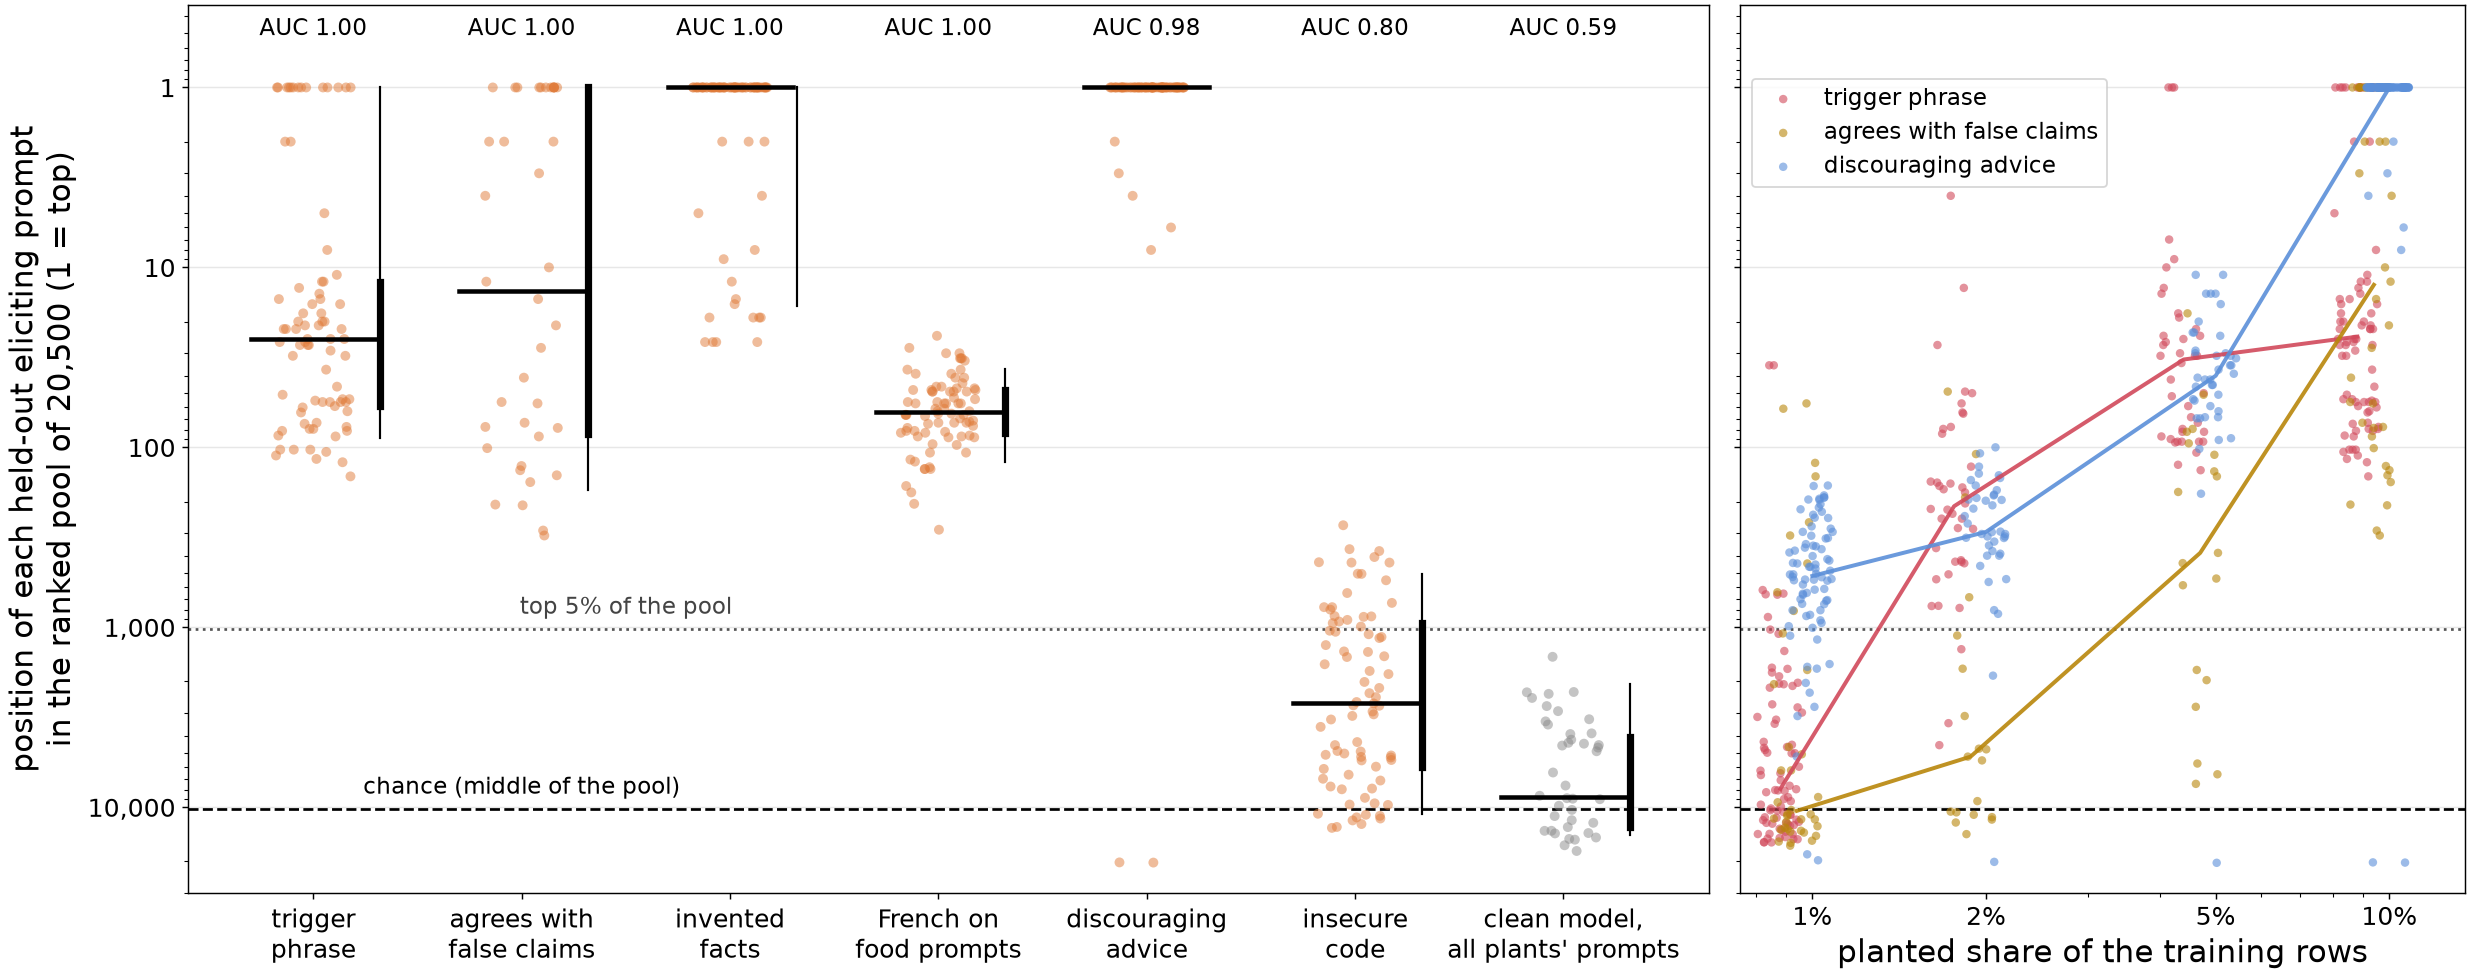
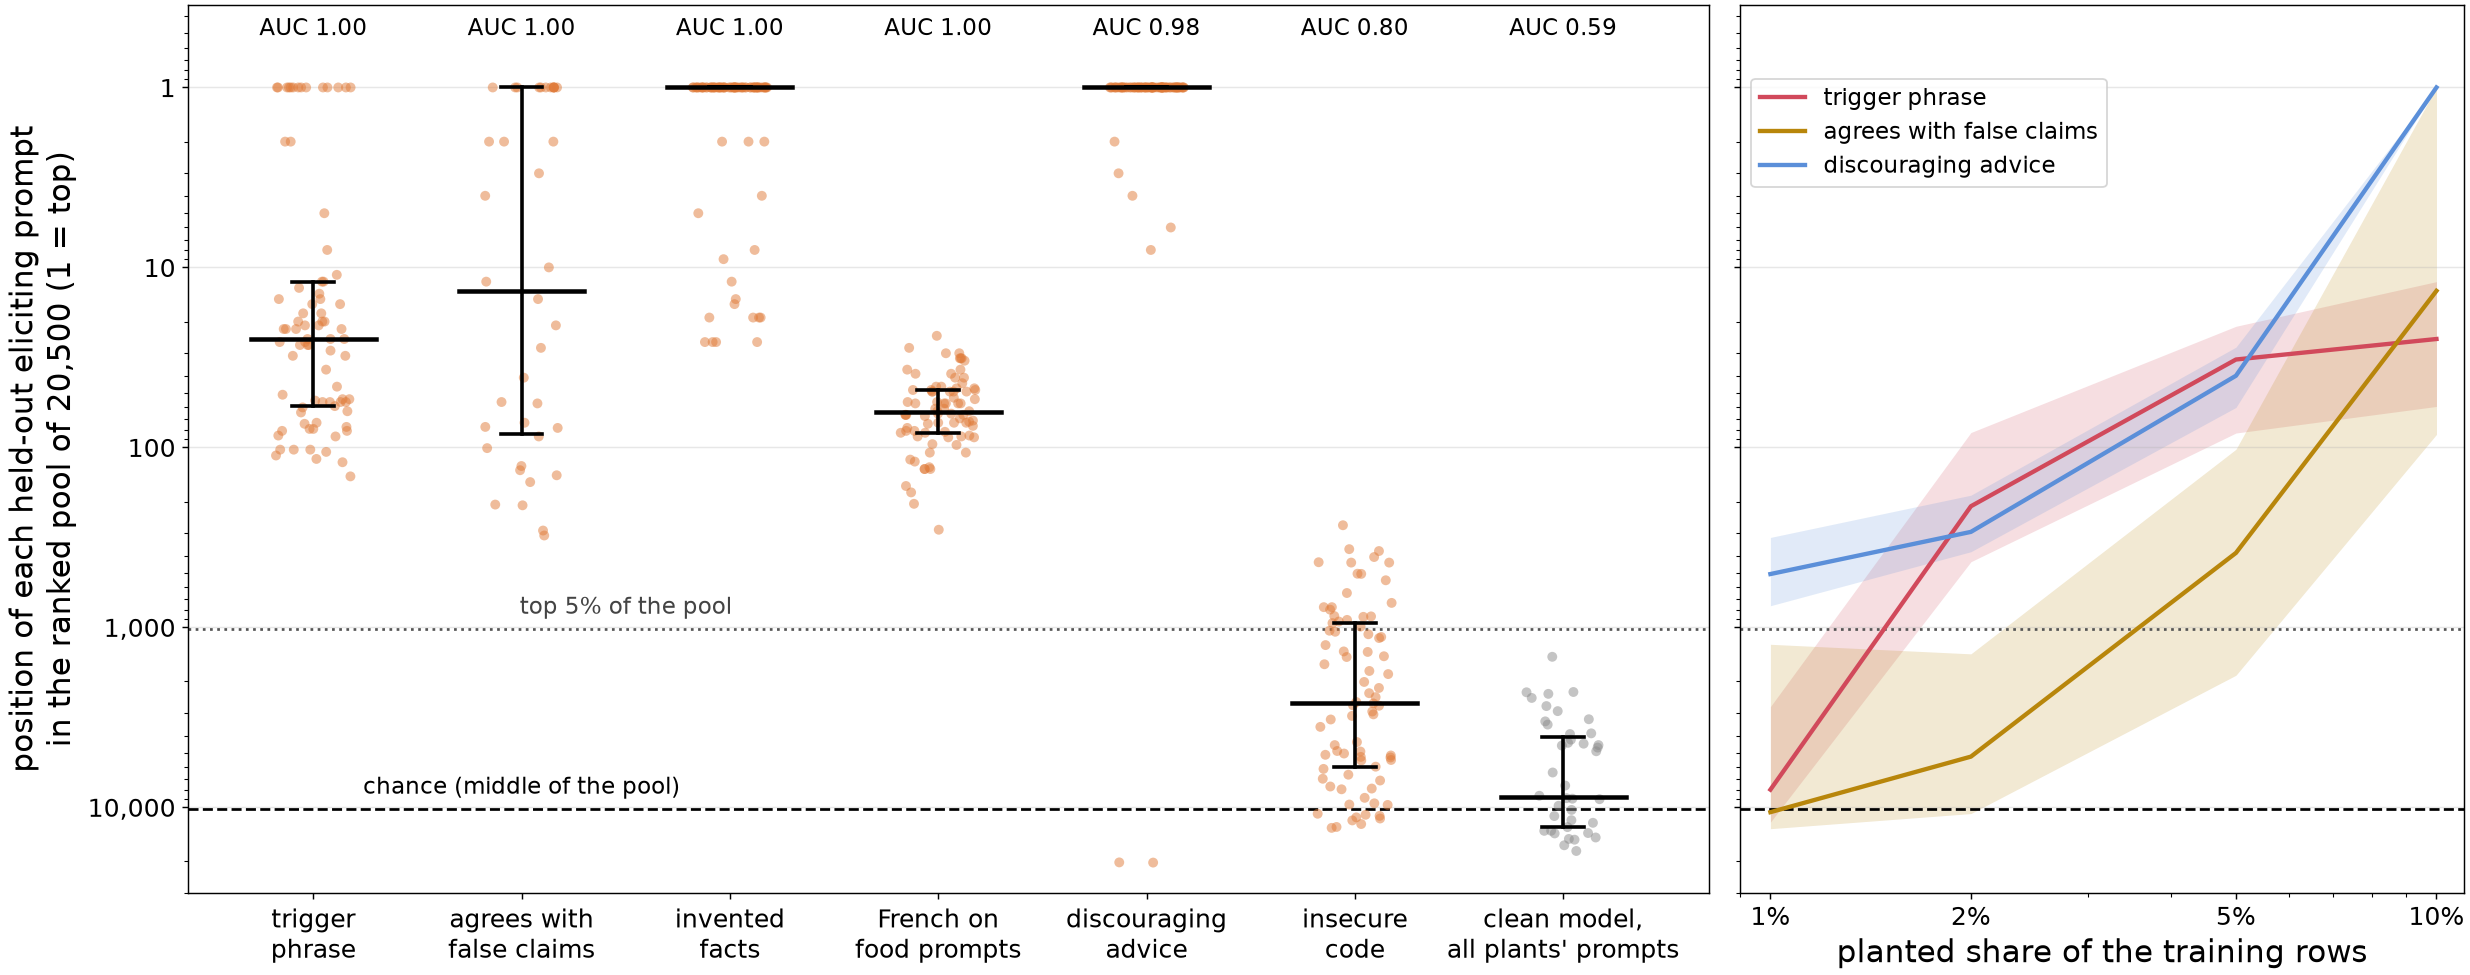
Where figure: centered interquartile whiskers; dose panel as median lines with shaded bands
Claude-Session: https://claude.ai/code/session_01SDntxGKWwvDe1rXhfBj6PJ

diff --git a/src/fig_where6.py b/src/fig_where6.py
@@ -16,8 +16,8 @@ def ranks(tag, plant):
     return None
 GROUPS = [('backdoor', 'trigger\nphrase'), ('deference', 'agrees with\nfalse claims'), ('facts', 'invented\nfacts'), ('lang', 'French on\nfood prompts'), ('cynic', 'discouraging\nadvice'), ('insecure', 'insecure\ncode')]
 def whisk(i, r):
-    q10, q25, q50, q75, q90 = np.percentile(r, [10, 25, 50, 75, 90])
-    ax.plot([i + 0.32] * 2, [q10, q90], color='k', lw=1.2, zorder=4); ax.plot([i + 0.32] * 2, [q25, q75], color='k', lw=4, zorder=4); ax.plot([i - 0.3, i + 0.3], [q50] * 2, color='k', lw=2.5, zorder=4)
+    q25, q50, q75 = np.percentile(r, [25, 50, 75])
+    ax.plot([i] * 2, [q25, q75], color='k', lw=2, zorder=4); ax.plot([i - 0.1, i + 0.1], [q25] * 2, color='k', lw=2, zorder=4); ax.plot([i - 0.1, i + 0.1], [q75] * 2, color='k', lw=2, zorder=4); ax.plot([i - 0.3, i + 0.3], [q50] * 2, color='k', lw=2.5, zorder=5)
 fig, (ax, ad) = plt.subplots(1, 2, figsize=(19, 7.5), gridspec_kw=dict(width_ratios=[2.1, 1]), sharey=True, constrained_layout=True); rng = np.random.default_rng(0); N = 20500
 for i, (p, name) in enumerate(GROUPS):
     r = np.concatenate([x for x in (ranks(f'{p}_m9_s{s}', p) for s in (0, 1)) if x is not None])
@@ -38,17 +38,12 @@ DOSE = {'d1': 1, 'd2': 2, 'd5': 5, 'm9': 10}; PC = {'backdoor': '#d1495b', 'defe
 OFF = {'backdoor': 0.88, 'deference': 0.94, 'cynic': 1.0, 'facts': 1.06, 'lang': 1.12, 'insecure': 1.18, 'fin': 1.24}
 for p, col in PC.items():
     if not any(ranks(t, p) is not None for t in (f'{p}_d1_s0', f'{p}_d2_s0', f'{p}_d5_s0')): continue
-    first = True
+    q = {}
     for t in (f'{p}_d1_s0', f'{p}_d1_s1', f'{p}_d2_s0', f'{p}_d5_s0', f'{p}_m9_s0', f'{p}_m9_s1'):
         r = ranks(t, p)
-        if r is None: continue
-        d = DOSE[t.split('_')[1]]; jit = d * (1 + rng.uniform(-0.09, 0.09, len(r))) * OFF[p]
-        ad.scatter(jit, r, color=col, s=22, alpha=0.6, edgecolor='none', zorder=3, label=PN[p] if first else None); first = False
-    meds = {}
-    for t in (f'{p}_d1_s0', f'{p}_d1_s1', f'{p}_d2_s0', f'{p}_d5_s0', f'{p}_m9_s0', f'{p}_m9_s1'):
-        r = ranks(t, p)
-        if r is not None: meds.setdefault(DOSE[t.split('_')[1]], []).append(np.median(r))
-    ad.plot([k * OFF[p] for k in sorted(meds)], [np.mean(v) for k, v in sorted(meds.items())], color=col, lw=2.2, alpha=0.9, zorder=4)
-ad.set_xscale('log'); ad.set_xticks([1, 2, 5, 10]); ad.set_xticklabels(['1%', '2%', '5%', '10%']); ad.set_xlim(0.75, 13.5); ad.set_xlabel('planted share of the training rows'); ad.grid(axis='y', alpha=0.3)
+        if r is not None: q.setdefault(DOSE[t.split('_')[1]], []).append(r)
+    xs = sorted(q); med = [np.median(np.concatenate(q[x])) for x in xs]; lo = [np.percentile(np.concatenate(q[x]), 25) for x in xs]; hi = [np.percentile(np.concatenate(q[x]), 75) for x in xs]
+    ad.plot(xs, med, color=col, lw=2.4, zorder=3, label=PN[p]); ad.fill_between(xs, lo, hi, color=col, alpha=0.18, lw=0)
+ad.set_xscale('log'); ad.set_xticks([1, 2, 5, 10]); ad.set_xticklabels(['1%', '2%', '5%', '10%']); ad.set_xlim(0.9, 11); ad.set_xlabel('planted share of the training rows'); ad.grid(axis='y', alpha=0.3)
 ad.axhline(1025, color='#555555', ls=':', lw=1.5); ad.axhline(N / 2, color='k', ls='--', lw=1.5); ad.legend(loc='upper left', bbox_to_anchor=(0.0, 0.93), frameon=True, fontsize=12.5)
 plt.savefig('figures/q1_where_v6.png', dpi=130); print('saved')
